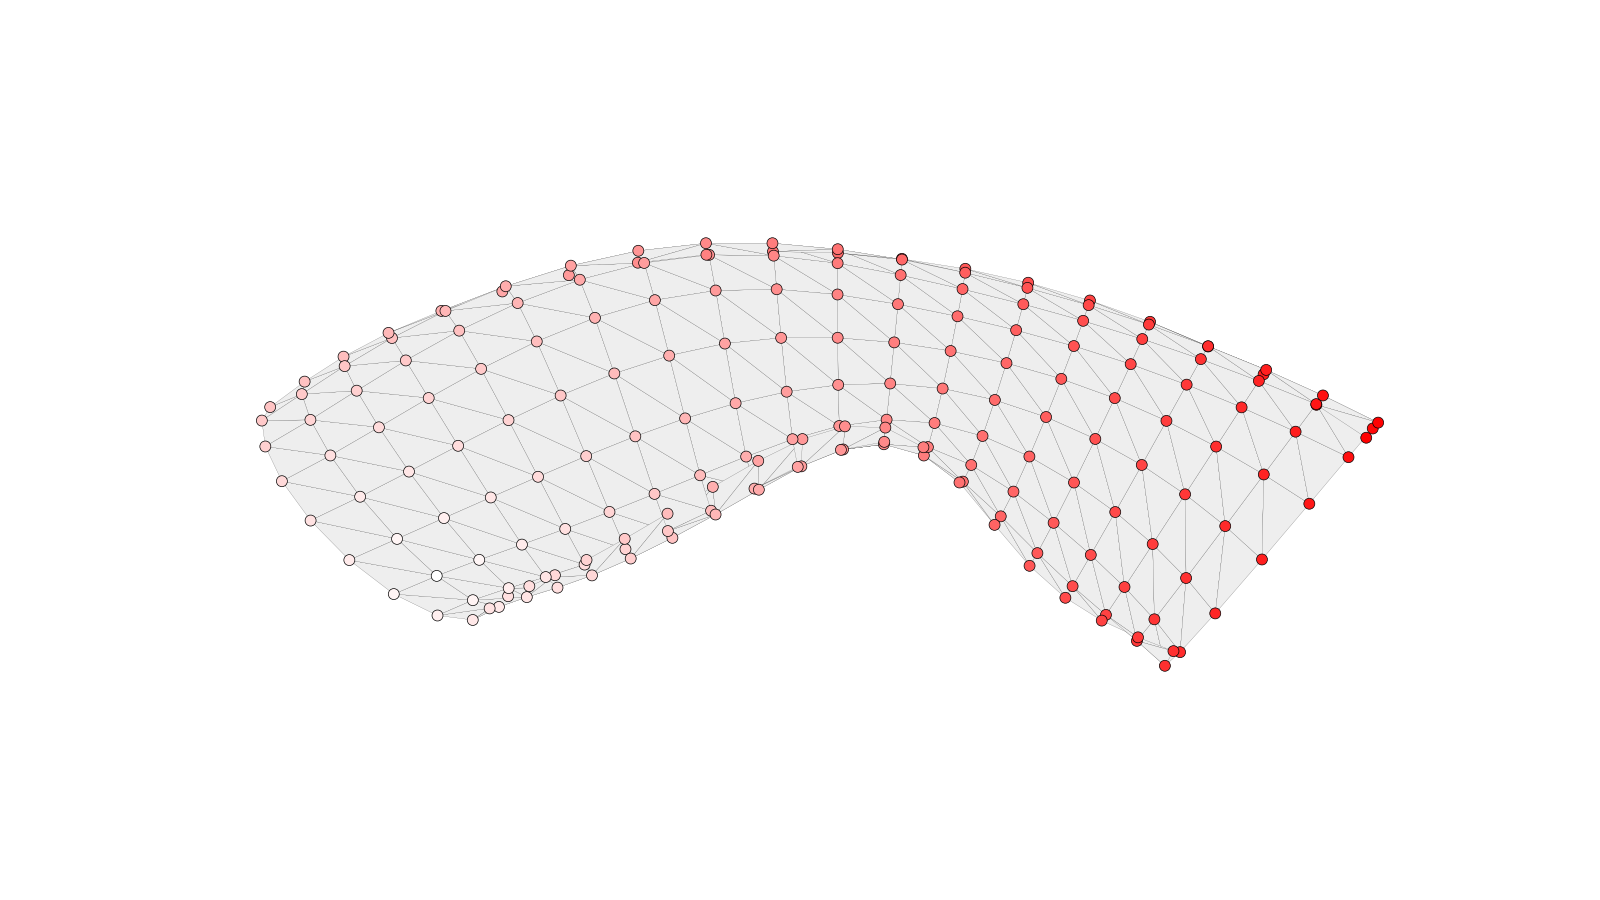
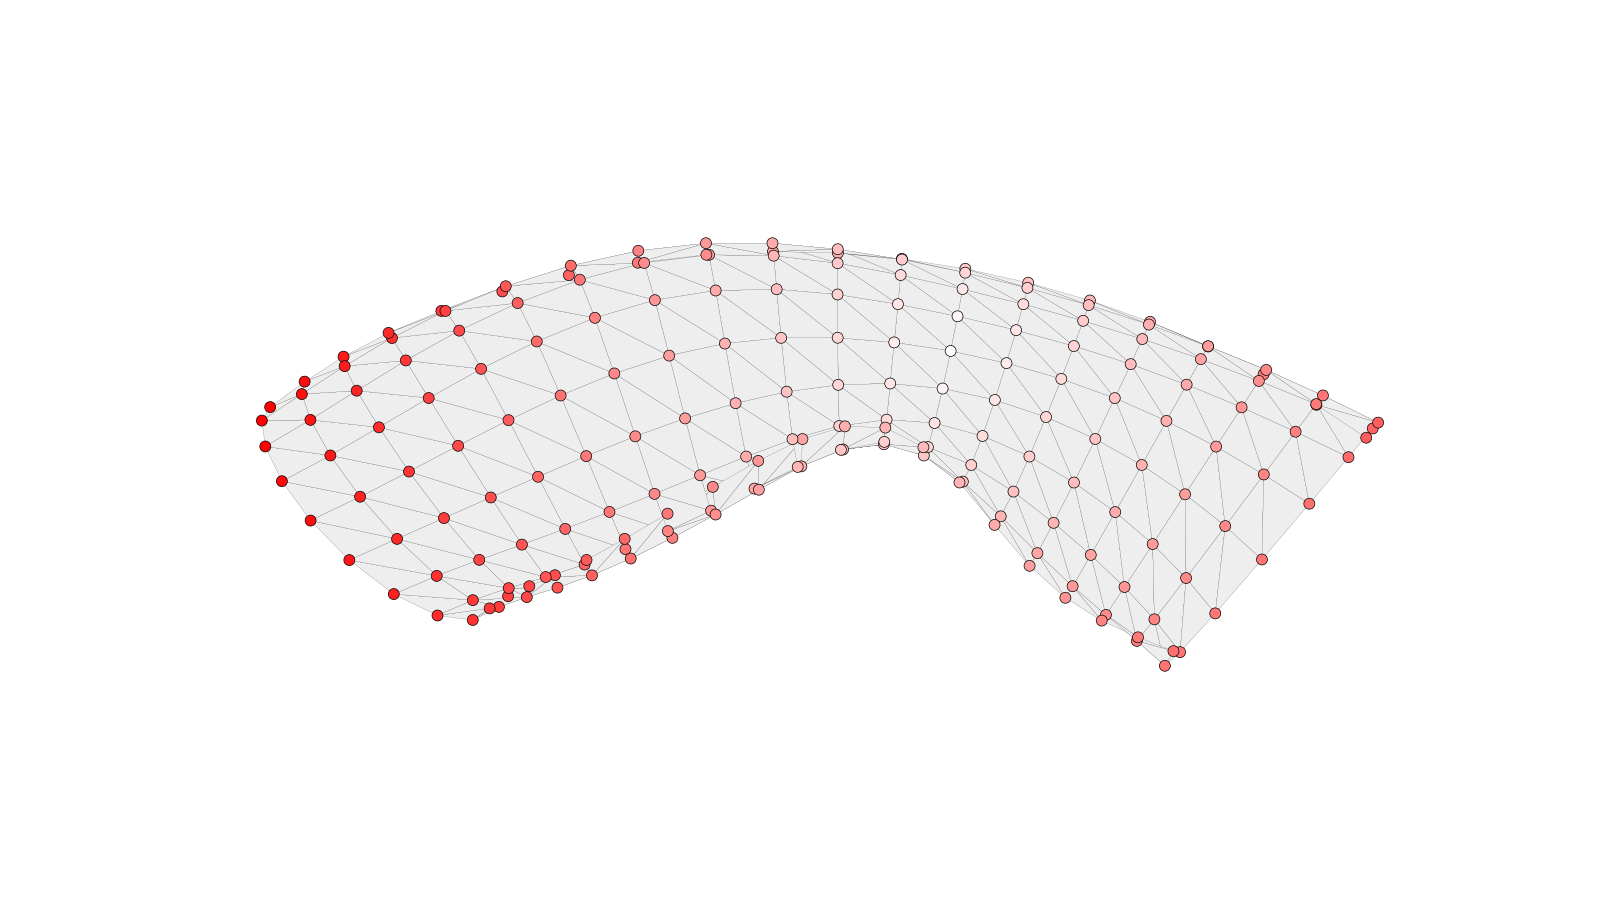
fix bug in parametrisation

diff --git a/examples/parametrisation.py b/examples/parametrisation.py
@@ -16,7 +16,7 @@ mesh_lscm = mesh.copy()
 # Harmonic parametrisation
 # ==============================================================================
 
-harmonic_uv = igl.trimesh_harmonic(mesh)
+harmonic_uv = igl.trimesh_harmonic(mesh.to_vertices_and_faces())
 
 for index, key in enumerate(mesh.vertices()):
     mesh_harmonic.vertex_attributes(key, 'xy', harmonic_uv[index])
@@ -25,7 +25,7 @@ for index, key in enumerate(mesh.vertices()):
 # Least-squares conformal map
 # ==============================================================================
 
-lscm_uv = igl.trimesh_lscm(mesh)
+lscm_uv = igl.trimesh_lscm(mesh.to_vertices_and_faces())
 
 for index, key in enumerate(mesh.vertices()):
     mesh_lscm.vertex_attributes(key, 'xy', lscm_uv[index])
